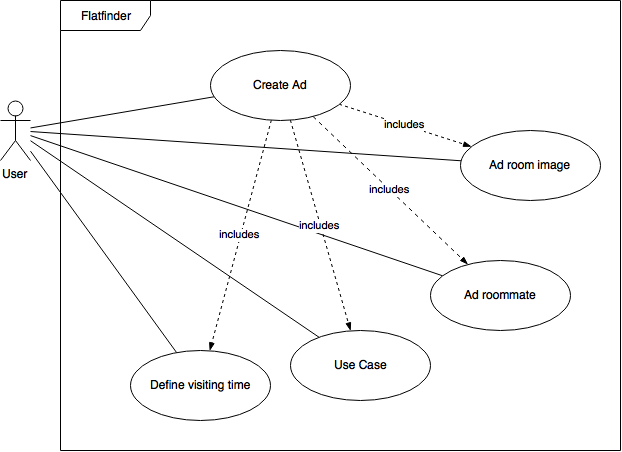
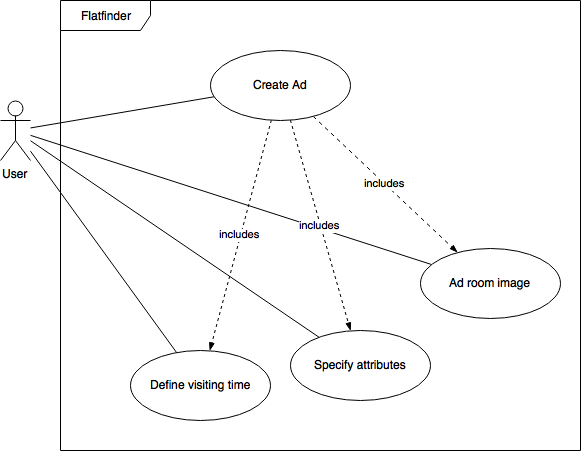
Updated srs and use cases to reflect removal of roommates.

diff --git a/documentation/srs.md b/documentation/srs.md
@@ -224,7 +224,7 @@ The following sections describe abbreviations and special terms used in this doc
 |:---|:---|
 |**ID**|`uc08`|
 |**Name**|View ad|
-|**Description**|The user reads the detailed information (attributes, images, roommates, description and others) of an advertisement.|
+|**Description**|The user reads the detailed information (attributes, images, description and others) of an advertisement.|
 |**Primary actor**|The user of the web application|
 |**Precondition**|The user visits either the start page of the web portal or performed a successful search (`uc05`).|
 |**Trigger**|The user wants to see the details of an ad|
@@ -325,11 +325,10 @@ The following sections describe abbreviations and special terms used in this doc
 ||3. The form "Place an ad" is shown. Optional Fields are labelled with (optional)|
 ||4. The user specifies a) the Ad Title, b) Street, c) Move-in date, d) Price per month, e) Type (Studio or Room), f) City / Zip code, g) Move-out date (optional), h) Square Meters|
 ||5. The user adds room descriptions to the Ad. Descriptions are added when the user clicks on checkboxes. In addition, the user adds a description as free text.|
-||6. The user adds Roommates which live in the room|
-||7. The user describes his preferences in a textfield|
-||8. The user uploads pictures|
-||9. The user specifies preferred Visiting times|
-||10. The user clicks on "Submit" in order to create the Ad|
+||6. The user describes his preferences in a textfield|
+||7. The user uploads pictures|
+||8. The user specifies preferred Visiting times|
+||9. The user clicks on "Submit" in order to create the Ad|
 |**Alternate flow**|If a mandatory field is not filled out, an error message pops up which advises the user to add the missing field.|
 
 #### Messaging
@@ -555,7 +554,7 @@ The suitors
 6. checks his schedule to get an overview over his enquiries
 
 #### Real estate manager
-Real estate managers have a real estate to rent. They are expected to be a more diverse group than the suitors: Presumably, they reach from students searching a roommate to landholders.
+Real estate managers have a real estate to rent.
 
 **Expectations of at the application**
 Real estate managers expect, that the application
@@ -676,8 +675,6 @@ Additionally a *textual description* of the real estate can be added to the ad.
 *Images* of the real estate can be added to the advertisement to give users a better impression of the real estate. This is not mandatory.
 
 The advertiser can state his *preferences* in questions of tenants with a textual description. This is not mandatory.
-
-The *roommates* living in the real estate can be mentioned in the advertisement. The advertiser can add their email-address (flatfinder account) to the advertisement. Additionally a brief text describing the roommates can be stored. This is not mandatory.
 
 The advertiser can specify multiple possible *visiting times* for enquiries. A visiting time is specified by a date, a start time and an end time. This is not mandatory.
 
